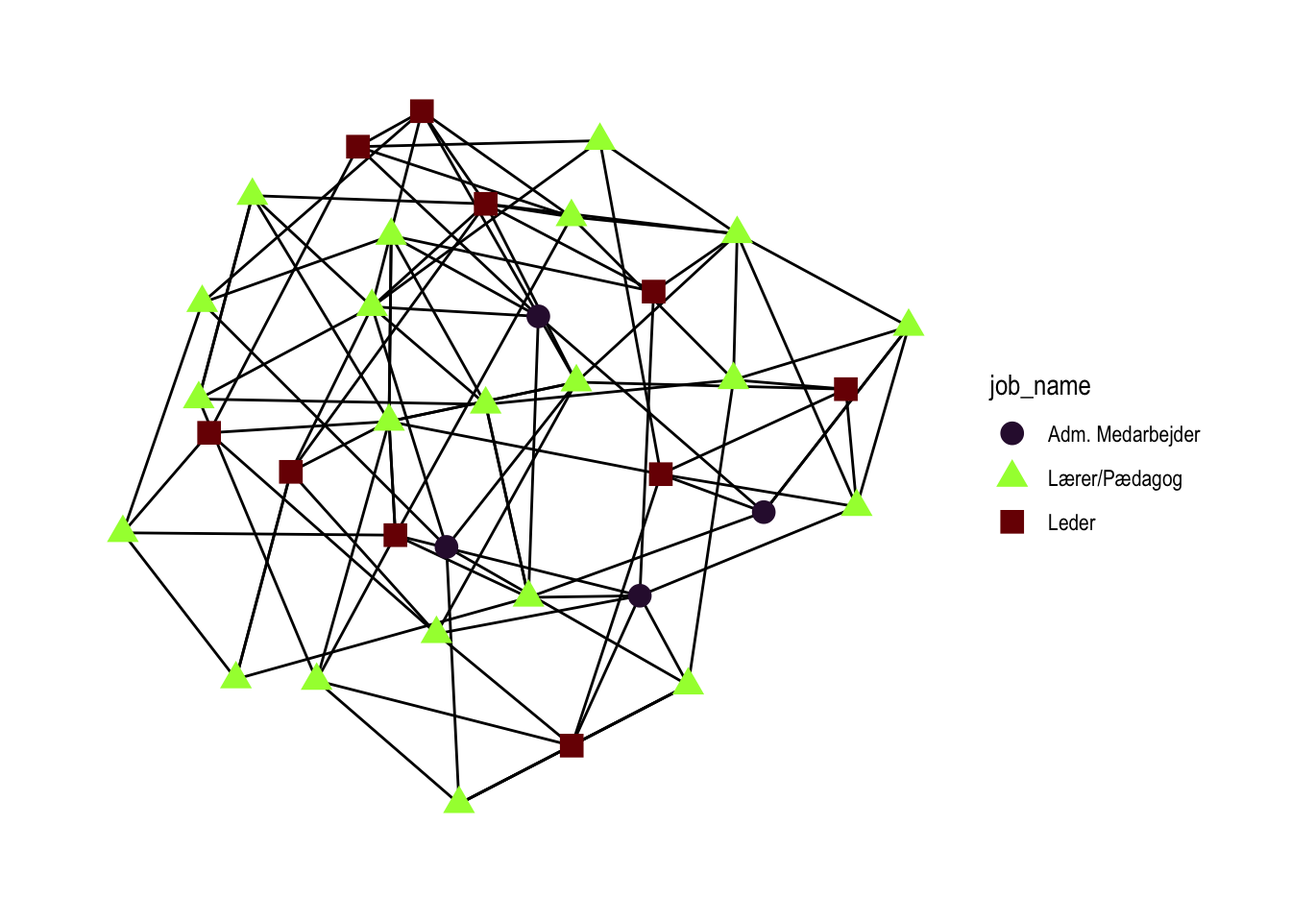
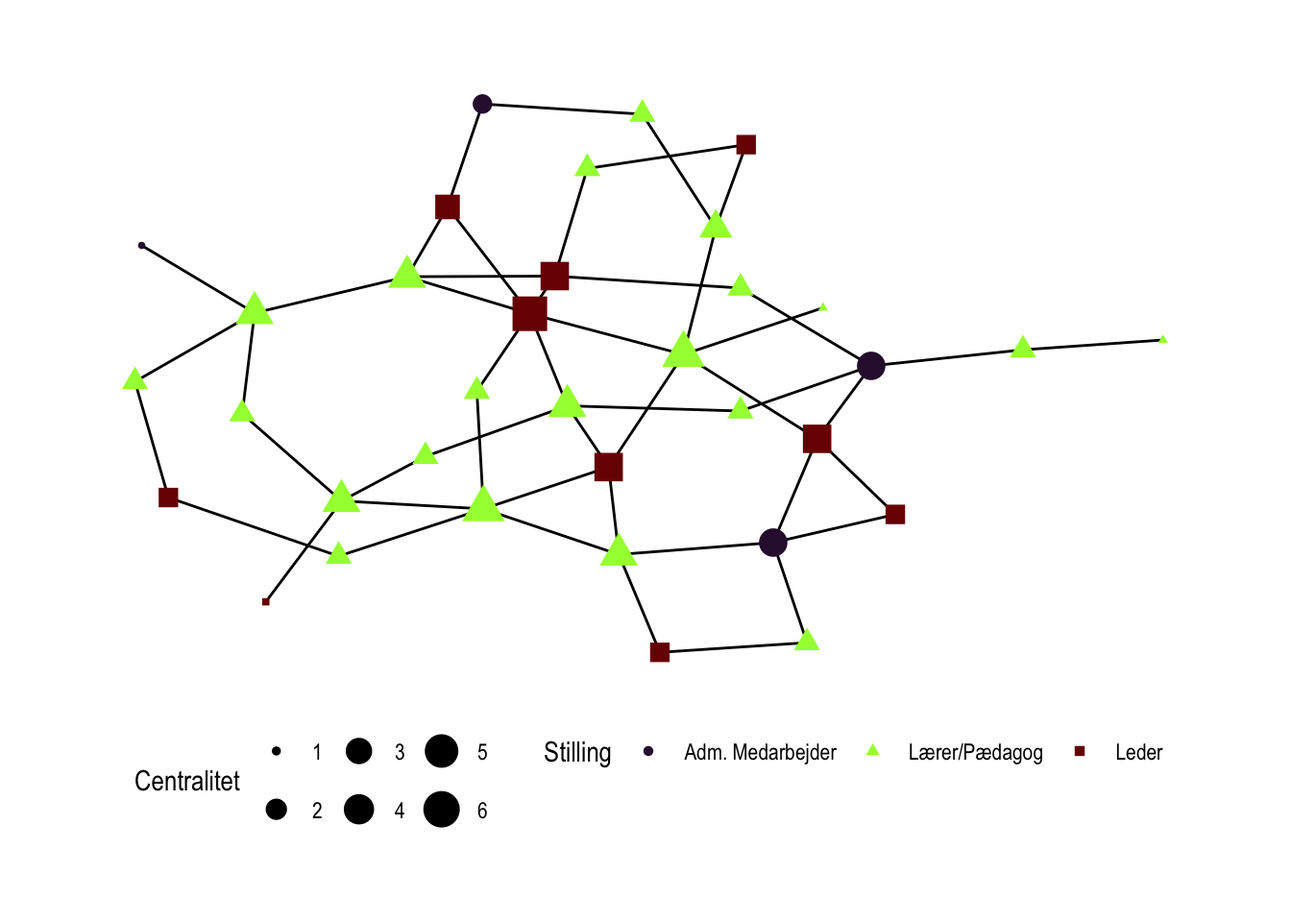
Built site for gh-pages

diff --git a/Lektion 4/Lektion 4.html b/Lektion 4/Lektion 4.html
@@ -8,7 +8,7 @@
 
 <meta name="author" content="Aleksander Bang-Larsen">
 
-<title>Lektion 3 – Aleksanders netværksanalyser</title>
+<title>Lektion 4 – Aleksanders netværksanalyser</title>
 <style>
 code{white-space: pre-wrap;}
 span.smallcaps{font-variant: small-caps;}
@@ -104,9 +104,9 @@ pre > code.sourceCode > span > a:first-child::before { text-decoration: underlin
 <style>html{ scroll-behavior: smooth; }</style>
 
 
-<meta property="og:title" content="Lektion 3 – Aleksanders netværksanalyser">
+<meta property="og:title" content="Lektion 4 – Aleksanders netværksanalyser">
 <meta property="og:description" content="">
-<meta property="og:image" content="https://aleksanderbl.dk/SocialNetwork/Lektion 3/Lektion-3_files/figure-html/unnamed-chunk-4-1.png">
+<meta property="og:image" content="https://aleksanderbl.dk/SocialNetwork/Lektion 4/Lektion-4_files/figure-html/unnamed-chunk-5-1.png">
 <meta property="og:site_name" content="Aleksanders netværksanalyser">
 <meta property="og:image:height" content="960">
 <meta property="og:image:width" content="1344">
@@ -163,23 +163,24 @@ pre > code.sourceCode > span > a:first-child::before { text-decoration: underlin
     <h2 id="toc-title">På denne side</h2>
    
   <ul>
-  <li><a href="#lav-edge--og-nodelist-i-excelark" id="toc-lav-edge--og-nodelist-i-excelark" class="nav-link active" data-scroll-target="#lav-edge--og-nodelist-i-excelark">Lav edge- og nodelist i excelark</a></li>
-  <li><a href="#dan-graf-med-noder-og-kanter" id="toc-dan-graf-med-noder-og-kanter" class="nav-link" data-scroll-target="#dan-graf-med-noder-og-kanter">Dan graf med noder og kanter</a></li>
-  <li><a href="#beregn-3-centralitetsmål-for-noderne" id="toc-beregn-3-centralitetsmål-for-noderne" class="nav-link" data-scroll-target="#beregn-3-centralitetsmål-for-noderne">Beregn 3 centralitetsmål for noderne</a>
+  <li><a href="#indlæs-pakker" id="toc-indlæs-pakker" class="nav-link active" data-scroll-target="#indlæs-pakker">Indlæs pakker</a></li>
+  <li><a href="#kode-fra-sidste-gang" id="toc-kode-fra-sidste-gang" class="nav-link" data-scroll-target="#kode-fra-sidste-gang">Kode fra sidste gang</a></li>
+  <li><a href="#clustering-analyse" id="toc-clustering-analyse" class="nav-link" data-scroll-target="#clustering-analyse">Clustering analyse</a></li>
+  <li><a href="#visualisering" id="toc-visualisering" class="nav-link" data-scroll-target="#visualisering">Visualisering</a>
   <ul class="collapse">
-  <li><a href="#degree-centralitet" id="toc-degree-centralitet" class="nav-link" data-scroll-target="#degree-centralitet">Degree centralitet</a></li>
-  <li><a href="#betweenness-centralitet" id="toc-betweenness-centralitet" class="nav-link" data-scroll-target="#betweenness-centralitet">Betweenness centralitet</a></li>
-  <li><a href="#closeness-centralitet" id="toc-closeness-centralitet" class="nav-link" data-scroll-target="#closeness-centralitet">Closeness centralitet</a></li>
+  <li><a href="#corrplot" id="toc-corrplot" class="nav-link" data-scroll-target="#corrplot">Corrplot</a></li>
+  <li><a href="#dendogram" id="toc-dendogram" class="nav-link" data-scroll-target="#dendogram">Dendogram</a></li>
+  <li><a href="#ggraph" id="toc-ggraph" class="nav-link" data-scroll-target="#ggraph">Ggraph</a></li>
   </ul></li>
   </ul>
-<div class="toc-actions"><ul><li><a href="https://github.com/aleksanderbl29/SocialNetwork/edit/main/Lektion 3/Lektion 3.qmd" target="_blank" class="toc-action"><i class="bi bi-github"></i>Modificer denne side</a></li><li><a href="https://github.com/aleksanderbl29/SocialNetwork/blob/main/Lektion 3/Lektion 3.qmd" target="_blank" class="toc-action"><i class="bi empty"></i>Vis kilde</a></li><li><a href="https://github.com/aleksanderbl29/SocialNetwork/issues/new" target="_blank" class="toc-action"><i class="bi empty"></i>Anmeld problem</a></li></ul></div></nav>
+<div class="toc-actions"><ul><li><a href="https://github.com/aleksanderbl29/SocialNetwork/edit/main/Lektion 4/Lektion 4.qmd" target="_blank" class="toc-action"><i class="bi bi-github"></i>Modificer denne side</a></li><li><a href="https://github.com/aleksanderbl29/SocialNetwork/blob/main/Lektion 4/Lektion 4.qmd" target="_blank" class="toc-action"><i class="bi empty"></i>Vis kilde</a></li><li><a href="https://github.com/aleksanderbl29/SocialNetwork/issues/new" target="_blank" class="toc-action"><i class="bi empty"></i>Anmeld problem</a></li></ul></div></nav>
     </div>
 <!-- main -->
 <main class="content" id="quarto-document-content">
 
 <header id="title-block-header" class="quarto-title-block default">
 <div class="quarto-title">
-<h1 class="title">Lektion 3</h1>
+<h1 class="title">Lektion 4</h1>
 </div>
 
 
@@ -196,7 +197,7 @@ pre > code.sourceCode > span > a:first-child::before { text-decoration: underlin
     <div>
     <div class="quarto-title-meta-heading">Udgivet</div>
     <div class="quarto-title-meta-contents">
-      <p class="date">24. februar 2025</p>
+      <p class="date">3. marts 2025</p>
     </div>
   </div>
   
@@ -208,129 +209,156 @@ pre > code.sourceCode > span > a:first-child::before { text-decoration: underlin
 </header>
 
 
-<p>I har lavet i forvejen løst opgaven: - ”Find papir og pen frem og tegn netværket, som I forestiller jer det så ud 1 måned efter sammenlægningen. Visualiser nodernes forskellige organisatoriske roller (lærer/pædagog, medarbejder/leder, osv.). For at gøre tegneopgaven overskuelig, kan I tage udgangspunkt i, at organisationerne havde få ansatte.”</p>
-<p><strong>Nu skal I løse opgaverne:</strong></p>
+<p>Vi arbejder videre med øvelsen fra sidste gang.</p>
+<p>Hvis I når at blive færdige, prøv at lave en clustering på baggrund af cosinus-lighed.</p>
 <ul>
-<li>Lav en edgelist i excel, pba. af jeres netværk.</li>
-<li>Lav en nodelist i excel. Bestem nodernes organisatoriske roller.</li>
-<li>Importer excel-filerne til R, og dan en graf ud af dem.</li>
-<li>Beregn 3 centralitetsmål for noderne.</li>
-<li>Visualiser netværket. Lad nodestørrelse være bestemt af centralitet og lad farve/form være bestemt af organisatorisk rolle.</li>
+<li>Jeg nåede at blive færdig, så her laver vi cluster analyse.</li>
 </ul>
-<section id="lav-edge--og-nodelist-i-excelark" class="level2">
-<h2 class="anchored" data-anchor-id="lav-edge--og-nodelist-i-excelark">Lav edge- og nodelist i excelark</h2>
-<p>Først indlæser vi alle de nødvendige pakker</p>
+<section id="indlæs-pakker" class="level2">
+<h2 class="anchored" data-anchor-id="indlæs-pakker">Indlæs pakker</h2>
+<p>Først skal vi indlæse de nødvendige pakker. Jeg sætter også et <code>seed</code> for at sikre det tilfædige udtræk, jeg vil bruge senere, er reproducerbart.</p>
 <div class="cell">
 <div class="sourceCode cell-code" id="cb1"><pre class="sourceCode r code-with-copy"><code class="sourceCode r"><span id="cb1-1"><a href="#cb1-1" aria-hidden="true" tabindex="-1"></a><span class="fu">library</span>(tidyverse)</span>
 <span id="cb1-2"><a href="#cb1-2" aria-hidden="true" tabindex="-1"></a><span class="fu">library</span>(tidygraph)</span>
-<span id="cb1-3"><a href="#cb1-3" aria-hidden="true" tabindex="-1"></a><span class="fu">library</span>(ggraph)</span></code><button title="Kopier til udklipsholder" class="code-copy-button"><i class="bi"></i></button></pre></div>
-</div>
-<p>Jeg importerer de to filer med <code>{readxl}</code>.</p>
-<div class="cell">
-<div class="sourceCode cell-code" id="cb2"><pre class="sourceCode r code-with-copy"><code class="sourceCode r"><span id="cb2-1"><a href="#cb2-1" aria-hidden="true" tabindex="-1"></a>e <span class="ot">&lt;-</span> readxl<span class="sc">::</span><span class="fu">read_excel</span>(<span class="st">"Lektion 3/edgelist.xlsx"</span>)</span>
-<span id="cb2-2"><a href="#cb2-2" aria-hidden="true" tabindex="-1"></a>n <span class="ot">&lt;-</span> readxl<span class="sc">::</span><span class="fu">read_excel</span>(<span class="st">"Lektion 3/nodelist.xlsx"</span>)</span></code><button title="Kopier til udklipsholder" class="code-copy-button"><i class="bi"></i></button></pre></div>
-</div>
-<p>Så kan vi inspicere de to datasæt</p>
-<div class="cell">
-<div class="sourceCode cell-code" id="cb3"><pre class="sourceCode r code-with-copy"><code class="sourceCode r"><span id="cb3-1"><a href="#cb3-1" aria-hidden="true" tabindex="-1"></a><span class="fu">head</span>(e, <span class="dv">2</span>)</span></code><button title="Kopier til udklipsholder" class="code-copy-button"><i class="bi"></i></button></pre></div>
-<div class="cell-output cell-output-stdout">
-<pre><code># A tibble: 2 × 2
-   from    to
-  &lt;dbl&gt; &lt;dbl&gt;
-1     1    32
-2     2    14</code></pre>
-</div>
-<div class="sourceCode cell-code" id="cb5"><pre class="sourceCode r code-with-copy"><code class="sourceCode r"><span id="cb5-1"><a href="#cb5-1" aria-hidden="true" tabindex="-1"></a><span class="fu">head</span>(n, <span class="dv">2</span>)</span></code><button title="Kopier til udklipsholder" class="code-copy-button"><i class="bi"></i></button></pre></div>
-<div class="cell-output cell-output-stdout">
-<pre><code># A tibble: 2 × 5
-     id   job job_name         origin origin_name                          
-  &lt;dbl&gt; &lt;dbl&gt; &lt;chr&gt;             &lt;dbl&gt; &lt;chr&gt;                                
-1     1     3 Leder                 1 Skræddermarkens Skole                
-2     2     4 Adm. Medarbejder      3 Søndermarkens Integrerede Institution</code></pre>
-</div>
+<span id="cb1-3"><a href="#cb1-3" aria-hidden="true" tabindex="-1"></a><span class="fu">library</span>(ggraph)</span>
+<span id="cb1-4"><a href="#cb1-4" aria-hidden="true" tabindex="-1"></a><span class="fu">library</span>(igraph)</span>
+<span id="cb1-5"><a href="#cb1-5" aria-hidden="true" tabindex="-1"></a><span class="fu">library</span>(dendextend)</span></code><button title="Kopier til udklipsholder" class="code-copy-button"><i class="bi"></i></button></pre></div>
 </div>
 </section>
-<section id="dan-graf-med-noder-og-kanter" class="level2">
-<h2 class="anchored" data-anchor-id="dan-graf-med-noder-og-kanter">Dan graf med noder og kanter</h2>
+<section id="kode-fra-sidste-gang" class="level2">
+<h2 class="anchored" data-anchor-id="kode-fra-sidste-gang">Kode fra sidste gang</h2>
+<p>Før jeg kan begynde på cluster analysen skal jeg have opbygget netværket fra sidste gang.</p>
 <div class="cell">
-<div class="sourceCode cell-code" id="cb7"><pre class="sourceCode r code-with-copy"><code class="sourceCode r"><span id="cb7-1"><a href="#cb7-1" aria-hidden="true" tabindex="-1"></a>network <span class="ot">&lt;-</span> <span class="fu">tbl_graph</span>(</span>
-<span id="cb7-2"><a href="#cb7-2" aria-hidden="true" tabindex="-1"></a>  <span class="at">nodes =</span> n,</span>
-<span id="cb7-3"><a href="#cb7-3" aria-hidden="true" tabindex="-1"></a>  <span class="at">edges =</span> e,</span>
-<span id="cb7-4"><a href="#cb7-4" aria-hidden="true" tabindex="-1"></a>  <span class="at">directed =</span> <span class="cn">FALSE</span></span>
-<span id="cb7-5"><a href="#cb7-5" aria-hidden="true" tabindex="-1"></a>)</span></code><button title="Kopier til udklipsholder" class="code-copy-button"><i class="bi"></i></button></pre></div>
+<div class="sourceCode cell-code" id="cb2"><pre class="sourceCode r code-with-copy"><code class="sourceCode r"><span id="cb2-1"><a href="#cb2-1" aria-hidden="true" tabindex="-1"></a>e <span class="ot">&lt;-</span> readxl<span class="sc">::</span><span class="fu">read_excel</span>(<span class="st">"Lektion 3/edgelist.xlsx"</span>)</span>
+<span id="cb2-2"><a href="#cb2-2" aria-hidden="true" tabindex="-1"></a>n <span class="ot">&lt;-</span> readxl<span class="sc">::</span><span class="fu">read_excel</span>(<span class="st">"Lektion 3/nodelist.xlsx"</span>)</span>
+<span id="cb2-3"><a href="#cb2-3" aria-hidden="true" tabindex="-1"></a>network <span class="ot">&lt;-</span> <span class="fu">tbl_graph</span>(</span>
+<span id="cb2-4"><a href="#cb2-4" aria-hidden="true" tabindex="-1"></a>  <span class="at">nodes =</span> n,</span>
+<span id="cb2-5"><a href="#cb2-5" aria-hidden="true" tabindex="-1"></a>  <span class="at">edges =</span> e,</span>
+<span id="cb2-6"><a href="#cb2-6" aria-hidden="true" tabindex="-1"></a>  <span class="at">directed =</span> <span class="cn">FALSE</span></span>
+<span id="cb2-7"><a href="#cb2-7" aria-hidden="true" tabindex="-1"></a>)</span></code><button title="Kopier til udklipsholder" class="code-copy-button"><i class="bi"></i></button></pre></div>
 </div>
-<p>Jeg tegner hurtigt netværket for at se, hvordan det ser ud.</p>
+</section>
+<section id="clustering-analyse" class="level2">
+<h2 class="anchored" data-anchor-id="clustering-analyse">Clustering analyse</h2>
+<p>Først skal vi convertere edgelisten til en adjacency matrix.</p>
 <div class="cell">
-<div class="sourceCode cell-code" id="cb8"><pre class="sourceCode r code-with-copy"><code class="sourceCode r"><span id="cb8-1"><a href="#cb8-1" aria-hidden="true" tabindex="-1"></a>network <span class="sc">|&gt;</span></span>
-<span id="cb8-2"><a href="#cb8-2" aria-hidden="true" tabindex="-1"></a>  <span class="fu">ggraph</span>(<span class="at">layout =</span> <span class="st">"stress"</span>) <span class="sc">+</span></span>
-<span id="cb8-3"><a href="#cb8-3" aria-hidden="true" tabindex="-1"></a>  <span class="fu">geom_edge_link</span>() <span class="sc">+</span></span>
-<span id="cb8-4"><a href="#cb8-4" aria-hidden="true" tabindex="-1"></a>  <span class="fu">geom_node_point</span>(<span class="fu">aes</span>(<span class="at">color =</span> job_name, <span class="at">shape =</span> job_name), <span class="at">size =</span> <span class="dv">4</span>) <span class="sc">+</span></span>
-<span id="cb8-5"><a href="#cb8-5" aria-hidden="true" tabindex="-1"></a>  <span class="fu">scale_color_viridis</span>(</span>
-<span id="cb8-6"><a href="#cb8-6" aria-hidden="true" tabindex="-1"></a>    <span class="at">discrete =</span> <span class="cn">TRUE</span>,</span>
-<span id="cb8-7"><a href="#cb8-7" aria-hidden="true" tabindex="-1"></a>    <span class="at">option =</span> <span class="st">"turbo"</span></span>
-<span id="cb8-8"><a href="#cb8-8" aria-hidden="true" tabindex="-1"></a>  ) <span class="sc">+</span></span>
-<span id="cb8-9"><a href="#cb8-9" aria-hidden="true" tabindex="-1"></a>  <span class="fu">theme_graph</span>()</span></code><button title="Kopier til udklipsholder" class="code-copy-button"><i class="bi"></i></button></pre></div>
+<div class="sourceCode cell-code" id="cb3"><pre class="sourceCode r code-with-copy"><code class="sourceCode r"><span id="cb3-1"><a href="#cb3-1" aria-hidden="true" tabindex="-1"></a>adj_mat <span class="ot">&lt;-</span> igraph<span class="sc">::</span><span class="fu">as_adjacency_matrix</span>(network)</span></code><button title="Kopier til udklipsholder" class="code-copy-button"><i class="bi"></i></button></pre></div>
+</div>
+<p>Jeg definerer en funktion til at udregne similaritets-matricen</p>
+<div class="cell">
+<div class="sourceCode cell-code" id="cb4"><pre class="sourceCode r code-with-copy"><code class="sourceCode r"><span id="cb4-1"><a href="#cb4-1" aria-hidden="true" tabindex="-1"></a>sim_mat <span class="ot">&lt;-</span> <span class="cf">function</span>(m) {</span>
+<span id="cb4-2"><a href="#cb4-2" aria-hidden="true" tabindex="-1"></a>  n <span class="ot">&lt;-</span> <span class="fu">nrow</span>(adj_mat)</span>
+<span id="cb4-3"><a href="#cb4-3" aria-hidden="true" tabindex="-1"></a>  sim_matrix <span class="ot">&lt;-</span> <span class="fu">matrix</span>(<span class="dv">0</span>, <span class="at">nrow =</span> n, <span class="at">ncol =</span> n)</span>
+<span id="cb4-4"><a href="#cb4-4" aria-hidden="true" tabindex="-1"></a>  <span class="cf">for</span> (i <span class="cf">in</span> <span class="dv">1</span><span class="sc">:</span>n) {</span>
+<span id="cb4-5"><a href="#cb4-5" aria-hidden="true" tabindex="-1"></a>    <span class="cf">for</span> (j <span class="cf">in</span> <span class="dv">1</span><span class="sc">:</span>n) {</span>
+<span id="cb4-6"><a href="#cb4-6" aria-hidden="true" tabindex="-1"></a>      numerator <span class="ot">&lt;-</span> <span class="fu">sum</span>(m[i, ] <span class="sc">*</span> m[j, ])</span>
+<span id="cb4-7"><a href="#cb4-7" aria-hidden="true" tabindex="-1"></a>      denominator <span class="ot">&lt;-</span> (<span class="fu">sqrt</span>(<span class="fu">sum</span>(m[i, ]<span class="sc">^</span><span class="dv">2</span>)) <span class="sc">*</span> <span class="fu">sqrt</span>(<span class="fu">sum</span>(m[j, ]<span class="sc">^</span><span class="dv">2</span>)))</span>
+<span id="cb4-8"><a href="#cb4-8" aria-hidden="true" tabindex="-1"></a>      <span class="cf">if</span> (denominator <span class="sc">&gt;</span> <span class="dv">0</span>) {</span>
+<span id="cb4-9"><a href="#cb4-9" aria-hidden="true" tabindex="-1"></a>        cosine <span class="ot">&lt;-</span> numerator <span class="sc">/</span> denominator</span>
+<span id="cb4-10"><a href="#cb4-10" aria-hidden="true" tabindex="-1"></a>      } <span class="cf">else</span> {</span>
+<span id="cb4-11"><a href="#cb4-11" aria-hidden="true" tabindex="-1"></a>        cosine <span class="ot">&lt;-</span> <span class="dv">0</span></span>
+<span id="cb4-12"><a href="#cb4-12" aria-hidden="true" tabindex="-1"></a>      }</span>
+<span id="cb4-13"><a href="#cb4-13" aria-hidden="true" tabindex="-1"></a>      sim_matrix[i, j] <span class="ot">&lt;-</span> cosine</span>
+<span id="cb4-14"><a href="#cb4-14" aria-hidden="true" tabindex="-1"></a>    }</span>
+<span id="cb4-15"><a href="#cb4-15" aria-hidden="true" tabindex="-1"></a>  }</span>
+<span id="cb4-16"><a href="#cb4-16" aria-hidden="true" tabindex="-1"></a>  (sim_matrix)</span>
+<span id="cb4-17"><a href="#cb4-17" aria-hidden="true" tabindex="-1"></a>}</span></code><button title="Kopier til udklipsholder" class="code-copy-button"><i class="bi"></i></button></pre></div>
+</div>
+<p>Herefter udregner jeg en similaritetsmatrice for mit netværk.</p>
+<div class="cell">
+<div class="sourceCode cell-code" id="cb5"><pre class="sourceCode r code-with-copy"><code class="sourceCode r"><span id="cb5-1"><a href="#cb5-1" aria-hidden="true" tabindex="-1"></a>sm <span class="ot">&lt;-</span> <span class="fu">sim_mat</span>(adj_mat)</span></code><button title="Kopier til udklipsholder" class="code-copy-button"><i class="bi"></i></button></pre></div>
+</div>
+</section>
+<section id="visualisering" class="level2">
+<h2 class="anchored" data-anchor-id="visualisering">Visualisering</h2>
+<p>For at visualisere matricen vil jeg først bruge corrplot og dernæst et dendogram. Til sidst vil jeg forsøge at tilføje clusters til mit ggplot (ggpraph).</p>
+<section id="corrplot" class="level3">
+<h3 class="anchored" data-anchor-id="corrplot">Corrplot</h3>
+<div class="cell">
+<div class="sourceCode cell-code" id="cb6"><pre class="sourceCode r code-with-copy"><code class="sourceCode r"><span id="cb6-1"><a href="#cb6-1" aria-hidden="true" tabindex="-1"></a>corrplot<span class="sc">::</span><span class="fu">corrplot</span>(</span>
+<span id="cb6-2"><a href="#cb6-2" aria-hidden="true" tabindex="-1"></a>  sm,</span>
+<span id="cb6-3"><a href="#cb6-3" aria-hidden="true" tabindex="-1"></a>  <span class="co"># type = "lower",</span></span>
+<span id="cb6-4"><a href="#cb6-4" aria-hidden="true" tabindex="-1"></a>  <span class="at">hclust.method =</span> <span class="st">"ward.D2"</span>,</span>
+<span id="cb6-5"><a href="#cb6-5" aria-hidden="true" tabindex="-1"></a>  <span class="at">addrect =</span> <span class="dv">4</span>,</span>
+<span id="cb6-6"><a href="#cb6-6" aria-hidden="true" tabindex="-1"></a>  <span class="at">rect.col =</span> <span class="st">"black"</span>,</span>
+<span id="cb6-7"><a href="#cb6-7" aria-hidden="true" tabindex="-1"></a>  <span class="at">order =</span> <span class="st">"hclust"</span>,</span>
+<span id="cb6-8"><a href="#cb6-8" aria-hidden="true" tabindex="-1"></a>  <span class="at">is.corr =</span> <span class="cn">FALSE</span>)</span></code><button title="Kopier til udklipsholder" class="code-copy-button"><i class="bi"></i></button></pre></div>
 <div class="cell-output-display">
 <div>
 <figure class="figure">
-<p><img src="Lektion-3_files/figure-html/unnamed-chunk-4-1.png" class="img-fluid figure-img" width="672"></p>
+<p><img src="Lektion-4_files/figure-html/unnamed-chunk-5-1.png" class="img-fluid figure-img" width="672"></p>
 </figure>
 </div>
 </div>
 </div>
 </section>
-<section id="beregn-3-centralitetsmål-for-noderne" class="level2">
-<h2 class="anchored" data-anchor-id="beregn-3-centralitetsmål-for-noderne">Beregn 3 centralitetsmål for noderne</h2>
-<p>Jeg udvælger:</p>
-<ol type="1">
-<li>Degree centralitet</li>
-<li>Betweenness centralitet</li>
-<li>Closeness centralitet</li>
-</ol>
-<section id="degree-centralitet" class="level3">
-<h3 class="anchored" data-anchor-id="degree-centralitet">Degree centralitet</h3>
+<section id="dendogram" class="level3">
+<h3 class="anchored" data-anchor-id="dendogram">Dendogram</h3>
+<p>Først udregner jeg distancematrice.</p>
 <div class="cell">
-<div class="sourceCode cell-code" id="cb9"><pre class="sourceCode r code-with-copy"><code class="sourceCode r"><span id="cb9-1"><a href="#cb9-1" aria-hidden="true" tabindex="-1"></a>network <span class="ot">&lt;-</span> network <span class="sc">|&gt;</span> </span>
-<span id="cb9-2"><a href="#cb9-2" aria-hidden="true" tabindex="-1"></a>  <span class="fu">mutate</span>(<span class="at">degree =</span> <span class="fu">centrality_degree</span>())</span></code><button title="Kopier til udklipsholder" class="code-copy-button"><i class="bi"></i></button></pre></div>
+<div class="sourceCode cell-code" id="cb7"><pre class="sourceCode r code-with-copy"><code class="sourceCode r"><span id="cb7-1"><a href="#cb7-1" aria-hidden="true" tabindex="-1"></a>d <span class="ot">&lt;-</span> <span class="dv">1</span> <span class="sc">-</span> sm</span></code><button title="Kopier til udklipsholder" class="code-copy-button"><i class="bi"></i></button></pre></div>
 </div>
-</section>
-<section id="betweenness-centralitet" class="level3">
-<h3 class="anchored" data-anchor-id="betweenness-centralitet">Betweenness centralitet</h3>
+<p>Herefter udregner jeg clusterne med <code>ward.D2</code>-metoden og omdanner til dendogram.</p>
 <div class="cell">
-<div class="sourceCode cell-code" id="cb10"><pre class="sourceCode r code-with-copy"><code class="sourceCode r"><span id="cb10-1"><a href="#cb10-1" aria-hidden="true" tabindex="-1"></a>network <span class="ot">&lt;-</span> network <span class="sc">|&gt;</span> </span>
-<span id="cb10-2"><a href="#cb10-2" aria-hidden="true" tabindex="-1"></a>  <span class="fu">mutate</span>(<span class="at">between =</span> <span class="fu">centrality_betweenness</span>())</span></code><button title="Kopier til udklipsholder" class="code-copy-button"><i class="bi"></i></button></pre></div>
-</div>
-</section>
-<section id="closeness-centralitet" class="level3">
-<h3 class="anchored" data-anchor-id="closeness-centralitet">Closeness centralitet</h3>
-<div class="cell">
-<div class="sourceCode cell-code" id="cb11"><pre class="sourceCode r code-with-copy"><code class="sourceCode r"><span id="cb11-1"><a href="#cb11-1" aria-hidden="true" tabindex="-1"></a>network <span class="ot">&lt;-</span> network <span class="sc">|&gt;</span> </span>
-<span id="cb11-2"><a href="#cb11-2" aria-hidden="true" tabindex="-1"></a>  <span class="fu">mutate</span>(<span class="at">closeness =</span> <span class="fu">centrality_closeness</span>())</span></code><button title="Kopier til udklipsholder" class="code-copy-button"><i class="bi"></i></button></pre></div>
+<div class="sourceCode cell-code" id="cb8"><pre class="sourceCode r code-with-copy"><code class="sourceCode r"><span id="cb8-1"><a href="#cb8-1" aria-hidden="true" tabindex="-1"></a>hc <span class="ot">&lt;-</span> <span class="fu">hclust</span>(<span class="fu">as.dist</span>(d), <span class="at">method=</span><span class="st">"ward.D2"</span>)</span>
+<span id="cb8-2"><a href="#cb8-2" aria-hidden="true" tabindex="-1"></a>dend <span class="ot">&lt;-</span> <span class="fu">as.dendrogram</span>(hc)</span></code><button title="Kopier til udklipsholder" class="code-copy-button"><i class="bi"></i></button></pre></div>
 </div>
 <div class="cell">
-<div class="sourceCode cell-code" id="cb12"><pre class="sourceCode r code-with-copy"><code class="sourceCode r"><span id="cb12-1"><a href="#cb12-1" aria-hidden="true" tabindex="-1"></a>network <span class="sc">|&gt;</span></span>
-<span id="cb12-2"><a href="#cb12-2" aria-hidden="true" tabindex="-1"></a>  <span class="fu">ggraph</span>(<span class="at">layout =</span> <span class="st">"stress"</span>) <span class="sc">+</span></span>
-<span id="cb12-3"><a href="#cb12-3" aria-hidden="true" tabindex="-1"></a>  <span class="fu">geom_edge_link</span>() <span class="sc">+</span></span>
-<span id="cb12-4"><a href="#cb12-4" aria-hidden="true" tabindex="-1"></a>  <span class="fu">geom_node_point</span>(</span>
-<span id="cb12-5"><a href="#cb12-5" aria-hidden="true" tabindex="-1"></a>    <span class="fu">aes</span>(</span>
-<span id="cb12-6"><a href="#cb12-6" aria-hidden="true" tabindex="-1"></a>      <span class="at">color =</span> job_name,</span>
-<span id="cb12-7"><a href="#cb12-7" aria-hidden="true" tabindex="-1"></a>      <span class="at">shape =</span> job_name,</span>
-<span id="cb12-8"><a href="#cb12-8" aria-hidden="true" tabindex="-1"></a>      <span class="at">size =</span> degree</span>
-<span id="cb12-9"><a href="#cb12-9" aria-hidden="true" tabindex="-1"></a>    )) <span class="sc">+</span></span>
-<span id="cb12-10"><a href="#cb12-10" aria-hidden="true" tabindex="-1"></a>  <span class="fu">labs</span>(</span>
-<span id="cb12-11"><a href="#cb12-11" aria-hidden="true" tabindex="-1"></a>    <span class="at">color =</span> <span class="st">"Stilling"</span>,</span>
-<span id="cb12-12"><a href="#cb12-12" aria-hidden="true" tabindex="-1"></a>    <span class="at">shape =</span> <span class="st">"Stilling"</span>,</span>
-<span id="cb12-13"><a href="#cb12-13" aria-hidden="true" tabindex="-1"></a>    <span class="at">size =</span> <span class="st">"Centralitet"</span></span>
-<span id="cb12-14"><a href="#cb12-14" aria-hidden="true" tabindex="-1"></a>  ) <span class="sc">+</span></span>
-<span id="cb12-15"><a href="#cb12-15" aria-hidden="true" tabindex="-1"></a>  <span class="fu">scale_color_viridis</span>(<span class="at">discrete =</span> <span class="cn">TRUE</span>, <span class="at">option =</span> <span class="st">"turbo"</span>) <span class="sc">+</span></span>
-<span id="cb12-16"><a href="#cb12-16" aria-hidden="true" tabindex="-1"></a>  <span class="fu">theme_graph</span>() <span class="sc">+</span></span>
-<span id="cb12-17"><a href="#cb12-17" aria-hidden="true" tabindex="-1"></a>  <span class="fu">theme</span>(</span>
-<span id="cb12-18"><a href="#cb12-18" aria-hidden="true" tabindex="-1"></a>    <span class="at">legend.position =</span> <span class="st">"bottom"</span></span>
-<span id="cb12-19"><a href="#cb12-19" aria-hidden="true" tabindex="-1"></a>  )</span></code><button title="Kopier til udklipsholder" class="code-copy-button"><i class="bi"></i></button></pre></div>
+<div class="sourceCode cell-code" id="cb9"><pre class="sourceCode r code-with-copy"><code class="sourceCode r"><span id="cb9-1"><a href="#cb9-1" aria-hidden="true" tabindex="-1"></a><span class="fu">plot</span>(dend, <span class="at">main=</span><span class="st">"Hierarchical Clustering with Ward's Method"</span>)</span></code><button title="Kopier til udklipsholder" class="code-copy-button"><i class="bi"></i></button></pre></div>
 <div class="cell-output-display">
 <div>
 <figure class="figure">
-<p><img src="Lektion-3_files/figure-html/unnamed-chunk-8-1.png" class="img-fluid figure-img" width="672"></p>
+<p><img src="Lektion-4_files/figure-html/unnamed-chunk-8-1.png" class="img-fluid figure-img" width="672"></p>
+</figure>
+</div>
+</div>
+</div>
+<p>Jeg vurderer ud fra figuren at der er fire clusters. Dem vil jeg farvelægge</p>
+<div class="cell">
+<div class="sourceCode cell-code" id="cb10"><pre class="sourceCode r code-with-copy"><code class="sourceCode r"><span id="cb10-1"><a href="#cb10-1" aria-hidden="true" tabindex="-1"></a>k <span class="ot">&lt;-</span> <span class="dv">4</span></span>
+<span id="cb10-2"><a href="#cb10-2" aria-hidden="true" tabindex="-1"></a>clusters <span class="ot">&lt;-</span> <span class="fu">cutree</span>(hc, <span class="at">k =</span> k)</span>
+<span id="cb10-3"><a href="#cb10-3" aria-hidden="true" tabindex="-1"></a>dend_color <span class="ot">&lt;-</span> <span class="fu">color_branches</span>(dend, <span class="at">k=</span>k)</span>
+<span id="cb10-4"><a href="#cb10-4" aria-hidden="true" tabindex="-1"></a><span class="fu">plot</span>(dend_color, <span class="at">main=</span><span class="st">"Hierarchical Clustering with Ward's Method"</span>)</span></code><button title="Kopier til udklipsholder" class="code-copy-button"><i class="bi"></i></button></pre></div>
+<div class="cell-output-display">
+<div>
+<figure class="figure">
+<p><img src="Lektion-4_files/figure-html/unnamed-chunk-9-1.png" class="img-fluid figure-img" width="672"></p>
+</figure>
+</div>
+</div>
+</div>
+</section>
+<section id="ggraph" class="level3">
+<h3 class="anchored" data-anchor-id="ggraph">Ggraph</h3>
+<p>For at tilføje clusters til netværket skal man lave en ny kolonne med <code>mutate()</code>.</p>
+<div class="cell">
+<div class="sourceCode cell-code" id="cb11"><pre class="sourceCode r code-with-copy"><code class="sourceCode r"><span id="cb11-1"><a href="#cb11-1" aria-hidden="true" tabindex="-1"></a>network <span class="sc">|&gt;</span></span>
+<span id="cb11-2"><a href="#cb11-2" aria-hidden="true" tabindex="-1"></a>  <span class="fu">mutate</span>(<span class="at">cluster =</span> clusters <span class="sc">|&gt;</span> </span>
+<span id="cb11-3"><a href="#cb11-3" aria-hidden="true" tabindex="-1"></a>           <span class="fu">as.character</span>(),</span>
+<span id="cb11-4"><a href="#cb11-4" aria-hidden="true" tabindex="-1"></a>         <span class="at">degree =</span> <span class="fu">centrality_degree</span>()) <span class="sc">|&gt;</span> </span>
+<span id="cb11-5"><a href="#cb11-5" aria-hidden="true" tabindex="-1"></a>  <span class="fu">ggraph</span>(<span class="at">layout =</span> <span class="st">"stress"</span>) <span class="sc">+</span></span>
+<span id="cb11-6"><a href="#cb11-6" aria-hidden="true" tabindex="-1"></a>  <span class="fu">geom_edge_link</span>() <span class="sc">+</span></span>
+<span id="cb11-7"><a href="#cb11-7" aria-hidden="true" tabindex="-1"></a>  <span class="fu">geom_node_point</span>(</span>
+<span id="cb11-8"><a href="#cb11-8" aria-hidden="true" tabindex="-1"></a>    <span class="fu">aes</span>(</span>
+<span id="cb11-9"><a href="#cb11-9" aria-hidden="true" tabindex="-1"></a>      <span class="at">color =</span> cluster,</span>
+<span id="cb11-10"><a href="#cb11-10" aria-hidden="true" tabindex="-1"></a>      <span class="at">shape =</span> job_name,</span>
+<span id="cb11-11"><a href="#cb11-11" aria-hidden="true" tabindex="-1"></a>      <span class="at">size =</span> degree</span>
+<span id="cb11-12"><a href="#cb11-12" aria-hidden="true" tabindex="-1"></a>    )</span>
+<span id="cb11-13"><a href="#cb11-13" aria-hidden="true" tabindex="-1"></a>    ) <span class="sc">+</span></span>
+<span id="cb11-14"><a href="#cb11-14" aria-hidden="true" tabindex="-1"></a>  <span class="fu">labs</span>(</span>
+<span id="cb11-15"><a href="#cb11-15" aria-hidden="true" tabindex="-1"></a>    <span class="at">color =</span> <span class="st">"Cluster"</span>,</span>
+<span id="cb11-16"><a href="#cb11-16" aria-hidden="true" tabindex="-1"></a>    <span class="at">shape =</span> <span class="st">"Stilling"</span>,</span>
+<span id="cb11-17"><a href="#cb11-17" aria-hidden="true" tabindex="-1"></a>    <span class="at">size =</span> <span class="st">"Centralitet"</span></span>
+<span id="cb11-18"><a href="#cb11-18" aria-hidden="true" tabindex="-1"></a>  ) <span class="sc">+</span></span>
+<span id="cb11-19"><a href="#cb11-19" aria-hidden="true" tabindex="-1"></a>  <span class="fu">scale_color_viridis</span>(<span class="at">discrete =</span> <span class="cn">TRUE</span>, <span class="at">option =</span> <span class="st">"turbo"</span>) <span class="sc">+</span></span>
+<span id="cb11-20"><a href="#cb11-20" aria-hidden="true" tabindex="-1"></a>  <span class="fu">theme_graph</span>() <span class="sc">+</span></span>
+<span id="cb11-21"><a href="#cb11-21" aria-hidden="true" tabindex="-1"></a>  <span class="fu">theme</span>(</span>
+<span id="cb11-22"><a href="#cb11-22" aria-hidden="true" tabindex="-1"></a>    <span class="at">legend.position =</span> <span class="st">"bottom"</span></span>
+<span id="cb11-23"><a href="#cb11-23" aria-hidden="true" tabindex="-1"></a>  )</span></code><button title="Kopier til udklipsholder" class="code-copy-button"><i class="bi"></i></button></pre></div>
+<div class="cell-output-display">
+<div>
+<figure class="figure">
+<p><img src="Lektion-4_files/figure-html/unnamed-chunk-10-1.png" class="img-fluid figure-img" width="672"></p>
 </figure>
 </div>
 </div>
@@ -763,5 +791,5 @@ window.document.addEventListener("DOMContentLoaded", function (event) {
 
 
 
-<footer class="footer"><div class="nav-footer"><div class="nav-footer-center"><div class="toc-actions d-sm-block d-md-none"><ul><li><a href="https://github.com/aleksanderbl29/SocialNetwork/edit/main/Lektion 3/Lektion 3.qmd" target="_blank" class="toc-action"><i class="bi bi-github"></i>Modificer denne side</a></li><li><a href="https://github.com/aleksanderbl29/SocialNetwork/blob/main/Lektion 3/Lektion 3.qmd" target="_blank" class="toc-action"><i class="bi empty"></i>Vis kilde</a></li><li><a href="https://github.com/aleksanderbl29/SocialNetwork/issues/new" target="_blank" class="toc-action"><i class="bi empty"></i>Anmeld problem</a></li></ul></div></div></div></footer><script src="../site_libs/quarto-html/zenscroll-min.js"></script>
+<footer class="footer"><div class="nav-footer"><div class="nav-footer-center"><div class="toc-actions d-sm-block d-md-none"><ul><li><a href="https://github.com/aleksanderbl29/SocialNetwork/edit/main/Lektion 4/Lektion 4.qmd" target="_blank" class="toc-action"><i class="bi bi-github"></i>Modificer denne side</a></li><li><a href="https://github.com/aleksanderbl29/SocialNetwork/blob/main/Lektion 4/Lektion 4.qmd" target="_blank" class="toc-action"><i class="bi empty"></i>Vis kilde</a></li><li><a href="https://github.com/aleksanderbl29/SocialNetwork/issues/new" target="_blank" class="toc-action"><i class="bi empty"></i>Anmeld problem</a></li></ul></div></div></div></footer><script src="../site_libs/quarto-html/zenscroll-min.js"></script>
 </body></html>

diff --git a/index.html b/index.html
@@ -209,7 +209,35 @@ window.Quarto = {
 
 <div class="quarto-listing quarto-listing-container-default" id="listing-listing">
 <div class="list quarto-listing-default">
-<div class="quarto-post image-right" data-index="0" data-listing-date-sort="1740355200000" data-listing-file-modified-sort="1740986920783" data-listing-date-modified-sort="NaN" data-listing-reading-time-sort="2" data-listing-word-count-sort="303">
+<div class="quarto-post image-right" data-index="0" data-listing-date-sort="1740960000000" data-listing-file-modified-sort="1741000444659" data-listing-date-modified-sort="NaN" data-listing-reading-time-sort="3" data-listing-word-count-sort="487">
+<div class="thumbnail">
+<p><a href="./Lektion 4/Lektion 4.html" class="no-external"></a></p><a href="./Lektion 4/Lektion 4.html" class="no-external">
+<p class="card-img-top"><img src="Lektion 4/Lektion-4_files/figure-html/unnamed-chunk-5-1.png"  class="thumbnail-image card-img"/></p>
+</a><p><a href="./Lektion 4/Lektion 4.html" class="no-external"></a></p>
+</div>
+<div class="body">
+<h3 class="no-anchor listing-title">
+<a href="./Lektion 4/Lektion 4.html" class="no-external">Lektion 4</a>
+</h3>
+<div class="listing-subtitle">
+<a href="./Lektion 4/Lektion 4.html" class="no-external"></a>
+</div>
+<div class="listing-description">
+<a href="./Lektion 4/Lektion 4.html" class="no-external">Vi arbejder videre med øvelsen fra sidste gang.</a>
+</div>
+</div>
+<div class="metadata">
+<a href="./Lektion 4/Lektion 4.html" class="no-external">
+<div class="listing-date">
+3. mar. 2025
+</div>
+<div class="listing-author">
+Aleksander Bang-Larsen
+</div>
+</a>
+</div>
+</div>
+<div class="quarto-post image-right" data-index="1" data-listing-date-sort="1740355200000" data-listing-file-modified-sort="1741000444659" data-listing-date-modified-sort="NaN" data-listing-reading-time-sort="2" data-listing-word-count-sort="331">
 <div class="thumbnail">
 <p><a href="./Lektion 3/Lektion 3.html" class="no-external"></a></p><a href="./Lektion 3/Lektion 3.html" class="no-external">
 <p class="card-img-top"><img src="Lektion 3/Lektion-3_files/figure-html/unnamed-chunk-4-1.png"  class="thumbnail-image card-img"/></p>
@@ -237,7 +265,7 @@ Aleksander Bang-Larsen
 </a>
 </div>
 </div>
-<div class="quarto-post image-right" data-index="1" data-listing-date-sort="1739750400000" data-listing-file-modified-sort="1740986920783" data-listing-date-modified-sort="NaN" data-listing-reading-time-sort="3" data-listing-word-count-sort="435">
+<div class="quarto-post image-right" data-index="2" data-listing-date-sort="1739750400000" data-listing-file-modified-sort="1741000444658" data-listing-date-modified-sort="NaN" data-listing-reading-time-sort="3" data-listing-word-count-sort="435">
 <div class="thumbnail">
 <p><a href="./Lektion 2/Lektion 2.html" class="no-external"></a></p><a href="./Lektion 2/Lektion 2.html" class="no-external">
 <p class="card-img-top"><img src="Lektion 2/Lektion-2_files/figure-html/unnamed-chunk-4-1.png"  class="thumbnail-image card-img"/></p>
@@ -265,7 +293,7 @@ Aleksander Bang-Larsen
 </a>
 </div>
 </div>
-<div class="quarto-post image-right" data-index="2" data-listing-date-sort="1738540800000" data-listing-file-modified-sort="1740986920782" data-listing-date-modified-sort="NaN" data-listing-reading-time-sort="2" data-listing-word-count-sort="329">
+<div class="quarto-post image-right" data-index="3" data-listing-date-sort="1738540800000" data-listing-file-modified-sort="1741000444658" data-listing-date-modified-sort="NaN" data-listing-reading-time-sort="2" data-listing-word-count-sort="329">
 <div class="thumbnail">
 <p><a href="./Lektion 1/Lektion 1.html" class="no-external"></a></p><a href="./Lektion 1/Lektion 1.html" class="no-external">
 <p class="card-img-top"><img src="Lektion 1/Lektion-1_files/figure-html/unnamed-chunk-4-1.png"  class="thumbnail-image card-img"/></p>
